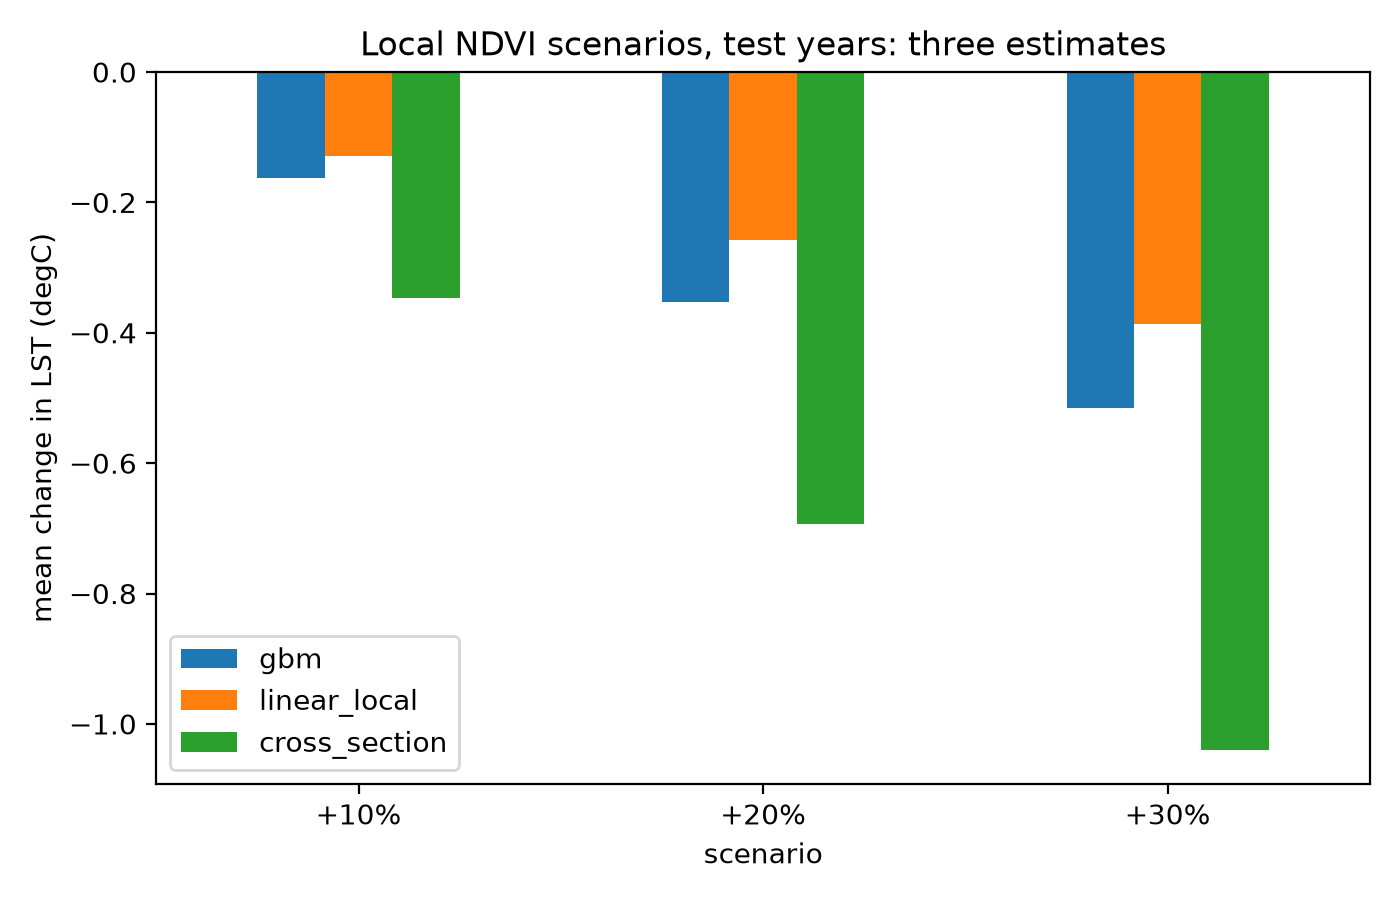
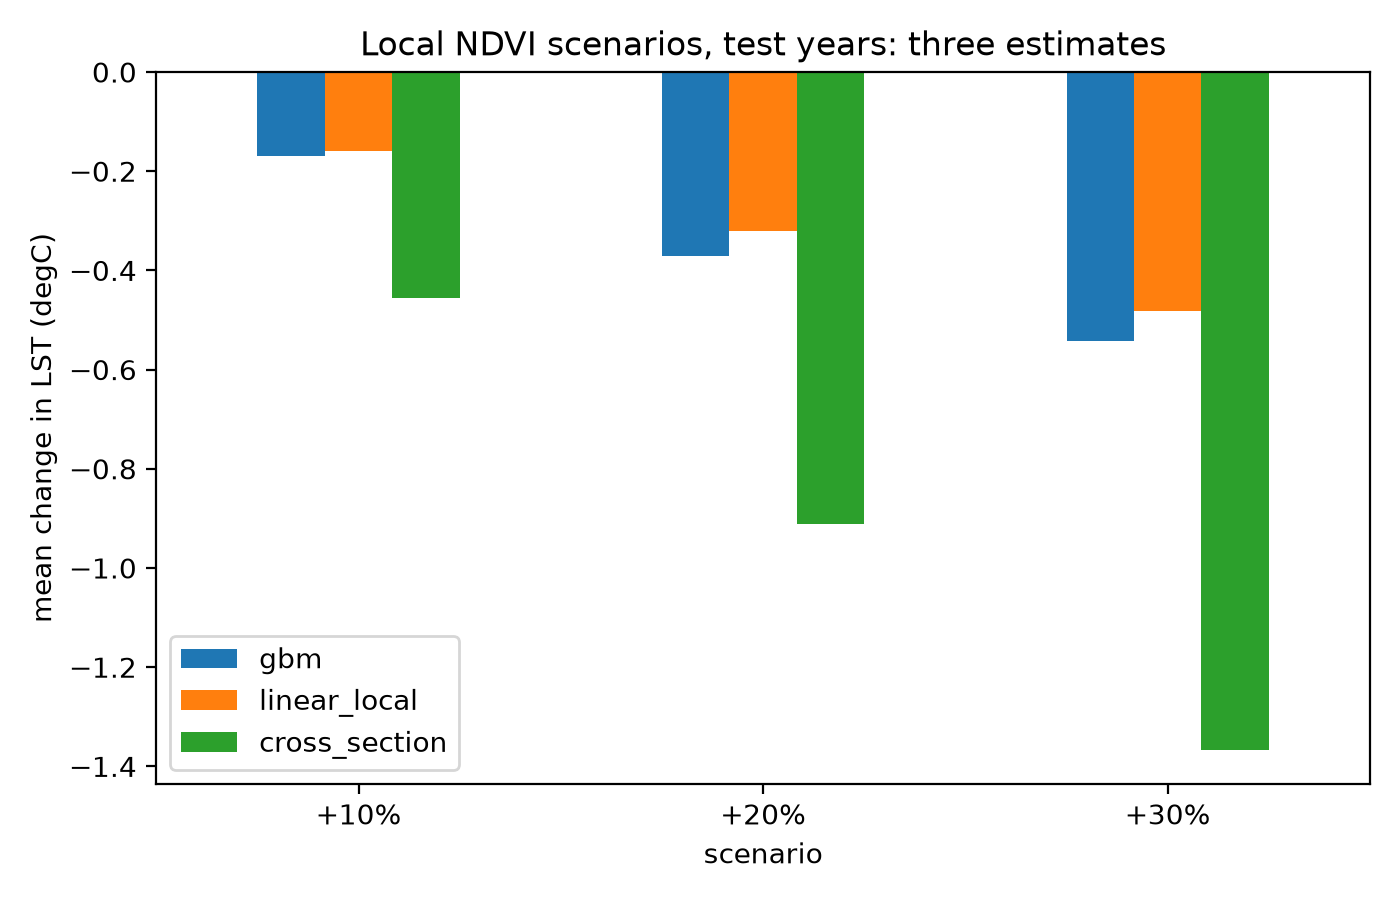
The water-mask fix worked.

diff --git a/05_counterfactual/bootstrap_ci.py b/05_counterfactual/bootstrap_ci.py
@@ -1,0 +1,59 @@
+"""Stage 5b: month-cluster bootstrap for local vs cross-sectional NDVI response.
+
+Months are the independent units (pixels within a month share weather and
+overpass conditions), so whole months are resampled with replacement.
+  local : linear spatial model effect of +0.1 local NDVI (nd_c + an_c terms)
+  cross : mean per-month cross-sectional slope of LST on NDVI, per +0.1
+Uses training-year rows (<= 2022) from rows.pkl.
+"""
+import warnings
+from pathlib import Path
+
+import numpy as np
+import pandas as pd
+
+warnings.filterwarnings("ignore")
+ROOT = Path(__file__).resolve().parents[1]
+B, SEED, TRAIN_END = 2000, 42, 2022
+SEASONS = {"all": range(1, 13), "Jan-Feb": [1, 2], "Mar-May": [3, 4, 5], "Oct-Dec": [10, 11, 12]}
+
+df = pd.read_pickle(ROOT / "data" / "processed" / "rows.pkl")
+df = df[df.year <= TRAIN_END].copy()
+df["anom"] = df.y - df.clim
+g = df.groupby(["year", "month"])
+df["s"] = df.anom - g.anom.transform("mean")
+df["nd_c"] = df.ndvi_t - g.ndvi_t.transform("mean")
+df["an_c"] = df.an_t - g.an_t.transform("mean")
+df = df.dropna(subset=["ndvi_t", "an_t", "nd_c", "an_c", "cell_ndvi", "s"])
+
+stats = []
+for (yr, mo), x in df.groupby(["year", "month"]):
+    X = np.column_stack([np.ones(len(x)), x.nd_c, x.an_c, x.cell_ndvi])
+    stats.append(dict(month=mo, XtX=X.T @ X, Xty=X.T @ x.s.values,
+                      xs=np.cov(x.ndvi_t, x.y)[0, 1] / np.var(x.ndvi_t, ddof=1)))
+
+
+def estimate(sel):
+    b = np.linalg.solve(sum(s["XtX"] for s in sel), sum(s["Xty"] for s in sel))
+    return 0.1 * (b[1] + b[2]), 0.1 * np.mean([s["xs"] for s in sel])
+
+
+rng = np.random.default_rng(SEED)
+rows = []
+for name, months in SEASONS.items():
+    sub = [s for s in stats if s["month"] in months]
+    if len(sub) < 3:
+        continue
+    loc, cross = estimate(sub)
+    boots = np.array([estimate([sub[i] for i in rng.integers(0, len(sub), len(sub))])
+                      for _ in range(B)])
+    ratio = boots[:, 0] / boots[:, 1]
+    q = lambda a: np.percentile(a, [2.5, 97.5])
+    rows.append(dict(season=name, n_months=len(sub),
+                     local=loc, local_lo=q(boots[:, 0])[0], local_hi=q(boots[:, 0])[1],
+                     cross=cross, cross_lo=q(boots[:, 1])[0], cross_hi=q(boots[:, 1])[1],
+                     ratio=loc / cross, ratio_lo=q(ratio)[0], ratio_hi=q(ratio)[1]))
+out = pd.DataFrame(rows).round(2)
+print("degC per +0.1 NDVI, 95% month-bootstrap intervals")
+print(out.to_string(index=False))
+out.to_csv(ROOT / "data" / "processed" / "ndvi_response_ci.csv", index=False)

diff --git a/02_preprocessing/build_cube.py b/02_preprocessing/build_cube.py
@@ -25,6 +25,7 @@ TRAIN_END = 2022
 BLOCK = 40            # cells per spatial block side (4.8 km)
 TEST_BLOCK_FRAC = 0.2
 SEED = 42
+WATER_OCC, WATER_FRAC = 25, 0.3  # JRC occurrence >= 25 %; cell water if >= 30 % of its pixels
 warnings.filterwarnings("ignore", category=RuntimeWarning)
 
 
@@ -52,6 +53,7 @@ keys = [f"{r.year}-{r.month:02d}" for r in usable.itertuples()]
 first = next(C.LANDSAT_DIR.glob("landsat_*.tif"))
 with rasterio.open(first) as s:
     H, W = s.height // FACTOR, s.width // FACTOR
+    full_shape = (s.height, s.width)
     x0, y0 = s.transform.c, s.transform.f
 
 lst = np.full((T, H, W), np.nan, np.float32)
@@ -76,9 +78,20 @@ for i, r in enumerate(usable.itertuples()):
     n[np.isnan(l)] = np.nan
     lst[i], ndvi[i], nobs[i] = block_mean(l), block_mean(n), block_mean(a[2])
 
-# Land mask: water has negative NDVI; cells never observed are invalid.
+# Land mask: NDVI < 0 rule plus JRC water occurrence (ponds, wetlands, river).
 med_ndvi = np.nanmedian(ndvi, axis=0)
 land = np.isfinite(med_ndvi) & (med_ndvi >= 0)
+occ_path = C.RAW_DIR / "water_occurrence.tif"
+n_water_extra = 0
+if occ_path.exists():
+    with rasterio.open(occ_path) as s:
+        occ = s.read(1).astype(np.float32)
+    assert occ.shape == full_shape, f"water grid {occ.shape} != {full_shape}"
+    water_cell = block_mean((occ >= WATER_OCC).astype(np.float32), min_frac=0) >= WATER_FRAC
+    n_water_extra = int((land & water_cell).sum())
+    land &= ~water_cell
+else:
+    print("WARNING: water_occurrence.tif missing; using NDVI rule only")
 lst[:, ~land], ndvi[:, ~land] = np.nan, np.nan
 
 # ERA5 aligned to the month axis (degC, mm).
@@ -131,6 +144,7 @@ fig.savefig(C.ROOT / "docs" / "figures" / "stage2_overview.png", dpi=200)
 
 print(f"Cube {lst.shape}  usable months {int(use.sum())}  "
       f"land cells {int(land.sum())} ({land.mean():.0%})")
+print(f"Extra cells removed by JRC water mask: {n_water_extra}")
 print("Dropped for cloud contamination:", dropped)
 print("Cold-outlier pixels masked (top 8):",
       sorted(masked_cnt.items(), key=lambda kv: -kv[1])[:8])

diff --git a/05_counterfactual/ndvi_scenarios.py b/05_counterfactual/ndvi_scenarios.py
@@ -1,4 +1,4 @@
-"""Stage 6: local NDVI scenarios on test-year rows (2024-25).
+"""Stage 5: local NDVI scenarios on test-year rows (2024-25).
 
 Scenario: NDVI of a cell rises by p% of its own value while the city-wide
 monthly mean is held fixed (local greening). Only the within-month spatial
@@ -58,6 +58,9 @@ for p in SCENARIOS:
         rows.append(dict(scenario=f"+{int(p * 100)}%", group=name, dNDVI=sub.dNDVI.mean(),
                          gbm=sub.gbm.mean(), linear_local=sub.linear_local.mean(),
                          cross_section=sub.cross_section.mean(),
+                         gbm_per01=0.1 * sub.gbm.mean() / sub.dNDVI.mean(),
+                         lin_per01=0.1 * sub.linear_local.mean() / sub.dNDVI.mean(),
+                         xs_per01=0.1 * sub.cross_section.mean() / sub.dNDVI.mean(),
                          pct_cells_gbm_cools=100 * sub.gbm_cools.mean()))
 out = pd.DataFrame(rows).round(3)
 print(out.to_string(index=False))

diff --git a/01_data_acquisition/acquire_water_mask.py b/01_data_acquisition/acquire_water_mask.py
@@ -1,0 +1,22 @@
+"""Stage 1d: static JRC Global Surface Water occurrence (0-100 %) on the Landsat grid.
+
+Used in Stage 2 to mask rivers, ponds and wetlands that the NDVI < 0 rule misses.
+Usage: python acquire_water_mask.py --ee-project YOUR_PROJECT
+"""
+import argparse
+
+import ee
+import geemap
+
+import config as C
+
+ap = argparse.ArgumentParser()
+ap.add_argument("--ee-project", default=None)
+args = ap.parse_args()
+C.init_ee(args.ee_project)
+roi = C.get_roi()
+occ = (ee.Image("JRC/GSW1_4/GlobalSurfaceWater").select("occurrence")
+       .unmask(0).toInt16().rename("occurrence"))
+out = C.RAW_DIR / "water_occurrence.tif"
+geemap.download_ee_image(occ, str(out), region=roi, crs=C.CRS, scale=C.SCALE)
+print("Wrote", out)

diff --git a/docs/DESIGN.md b/docs/DESIGN.md
@@ -1,30 +1,30 @@
-# Design: Urban Heat Island Forecasting
+# Design: Urban Heat Island Forecasting (revised after Stage 3-4 results)
 
 Author: Tamojeet Pal, @iTamojeet
 
 ## Research question
 
-Does a sequence model over monthly vegetation and meteorological inputs forecast next-month land surface temperature (LST) better than simple baselines, and is its learned sensitivity to NDVI physically plausible?
+How does neighbourhood-scale land surface temperature (LST) in Kolkata respond to vegetation (NDVI), and how much of the cross-sectional NDVI-LST relationship survives as a local, within-cell response usable for greening scenarios?
 
-## Hypotheses
+## Hypotheses (revised)
 
-- H1: An LSTM using past LST, NDVI and meteorology reduces next-month LST error relative to persistence, seasonal climatology and a linear NDVI + meteorology regression, evaluated on held-out future years.
-- H2: The LSTM's response to counterfactual NDVI inputs is consistent in sign and rough magnitude with the empirical NDVI-LST slope measured directly from the observations. Counterfactual outputs are model sensitivity, not causal cooling estimates.
+- H1 (original, not supported): an LSTM using past LST, NDVI and meteorology beats persistence, climatology and linear baselines for next-month LST. Stage 3-4 showed past anomalies carry no skill beyond climatology and flexible models overfit month-level weather (about 55 independent training months).
+- H1' (reframed): a nonlinear model of the within-month spatial pattern, driven by NDVI and cell context, beats climatology and linear models on the spatial component of the error.
+- H2: the model's local NDVI response has the same sign as the empirical cross-sectional slope but a smaller magnitude, because the cross-sectional slope confounds NDVI with urban form. Scenario outputs are model sensitivity, not causal estimates.
 
-## Study area and data
+## Data
 
-- Area: Kolkata metropolitan core, bbox in `01_data_acquisition/config.py`, UTM 45N, 30 m grid.
-- Target and predictors: Landsat 8/9 Collection 2 Level-2 monthly median LST and NDVI, 2014-2025, with per-pixel clear-observation counts.
-- Dense covariates: ERA5-Land monthly area-mean skin temperature, 2 m temperature, precipitation.
-- Known limitation: monsoon cloud cover leaves June-September sparse. Stage 1 measures this; Stage 2 handles it with explicit missing-value masks rather than interpolating the target.
+Landsat 8/9 Collection 2 Level-2 monthly median LST and NDVI, 2014-2025, Kolkata core, 30 m aggregated to 120 m; ERA5-Land monthly area-mean skin temperature, 2 m temperature, precipitation; JRC Global Surface Water occurrence for the water mask. Usable months: about 88 of 144, with no usable July-September observations.
 
-## Stages
+## Stages (folder numbers)
 
-1. Data acquisition: monthly composites, ERA5-Land table, coverage log and coverage figure.
-2. Preprocessing and alignment: stack to a (time, band, y, x) array, aggregate to the analysis grid, build masks and the NDVI-LST empirical relationship, define spatial blocks.
-3. Baselines: persistence, seasonal climatology, linear regression.
-4. Training: LSTM on Colab T4, temporal split (train 2014-2022, validation 2023, test 2024-2025), checkpoints to Drive.
-5. Evaluation: error against baselines by season, spatial error maps, held-out spatial blocks as a secondary test.
-6. Counterfactual NDVI analysis: +10/+20/+30% NDVI scenarios, compared with the empirical slope from Stage 2.
+1. `01_data_acquisition`: monthly composites, ERA5, coverage log, water mask.
+2. `02_preprocessing`: usable-month filter, cold-outlier masking, 120 m cube, land mask, spatial blocks, per-image NDVI-LST slopes.
+3. `03_baselines`: persistence, climatology, linear, linear + concurrent ERA5; temporal split (train <= 2022, val 2023, test 2024-25) and held-out spatial blocks.
+4. `04_models`: gradient boosting (prev / concurrent inputs) and the two-level hierarchical model with an exact month/spatial error decomposition.
+5. `05_counterfactual`: local NDVI scenarios (+10/20/30%) and month-cluster bootstrap intervals for local vs cross-sectional response.
+6. Write-up: README, figures, limitations.
 
-Split years are provisional until the Stage 1 coverage figure is reviewed.
+## Known limitations
+
+No July-September coverage; monthly composites rest on 1-6 clear overpasses; month-level error dominates and is weakly predictable; NDVI measurement noise attenuates the local response while confounding inflates the cross-sectional one, so the truth lies between; no ground-truth for scenarios.
